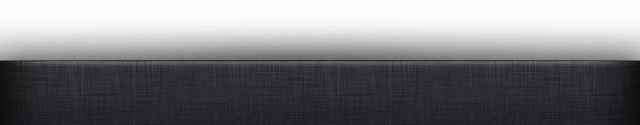
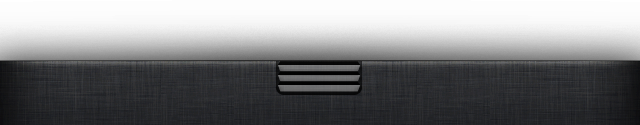
Stats Headline + Pulling View layout fixed (finished).

Changed region(s): [[0.4062, 0.48, 0.5625, 0.768]]

diff --git a/Gitty/DARepoCtrl+Animation.m b/Gitty/DARepoCtrl+Animation.m
@@ -63,8 +63,6 @@
 	
 	[UIView animateWithDuration:StandartAnimationDuration animations:^{
 		self.headerContainer.y += offset;
-		
-//		self.commitsContainer.frame = CGRectInset(self.commitsContainer.frame, .0, offset / 2);
 	}completion:^(BOOL finished) {
 		self.headerContainer.hidden = !visible;
 		
@@ -73,23 +71,6 @@
 		}
 	}];
 }
-/*
-- (void)setStatsHeadlineViewVisible:(BOOL)visible animated:(BOOL)animated {
-	if (isStatsHeadlineVisible == visible) {
-		return;
-	}
-	isStatsHeadlineVisible = visible;
-	
-	CGFloat offset = self.statsHeaderContainer.height;
-	offset *= visible ? 1. : -1.;
-	
-	[UIView animateWithDuration:StandartAnimationDuration animations:^{
-		self.statsHeaderContainer.y += offset;
-		
-		CGFloat y = self.statsHeaderContainer.y + self.statsHeaderContainer.height;
-		self.mainContainer.frame = CGRectMake(.0, y, self.view.width, self.view.height - y);
-	}];
-}*/
 
 - (void)setStatsContainerMode:(DAStatsContainerModes)mode animated:(BOOL)animated {
 	if (statsContainerMode == mode) {
@@ -101,7 +82,7 @@
 	CGFloat offsets[] = {
 		self.statsHeadlineLabel.height,
 		.0,
-		self.view.height - self.grabFooterImage.height
+		self.view.height - (self.grabButton.height - 30./*Out-of-bounds part of image*/)
 	};
 	
 	CGFloat y = offsets[mode];

diff --git a/Gitty/DARepoCtrl.h b/Gitty/DARepoCtrl.h
@@ -37,7 +37,6 @@ typedef enum {
 @property (strong, nonatomic) IBOutlet UIView *headerContainer;
 @property (strong, nonatomic) IBOutlet UIView *commitsContainer;
 @property (strong, nonatomic) IBOutlet UITableView *commitsTable;
-@property (strong, nonatomic) IBOutlet UIImageView *grabFooterImage;
 
 @property (strong, nonatomic) IBOutlet UIButton *currentBranchButton;
 

diff --git a/Gitty/DARepoCtrl+Animation.h b/Gitty/DARepoCtrl+Animation.h
@@ -13,7 +13,6 @@
 - (void)setDiffLoadingOverlayVisible:(BOOL)visible animated:(BOOL)animated;
 
 - (void)setPullingViewVisible:(BOOL)visible animated:(BOOL)animated;
-//- (void)setStatsHeadlineViewVisible:(BOOL)visible animated:(BOOL)animated;
 - (void)setStatsContainerMode:(DAStatsContainerModes)mode animated:(BOOL)animated;
 
 - (void)loadStatsHeadline;
